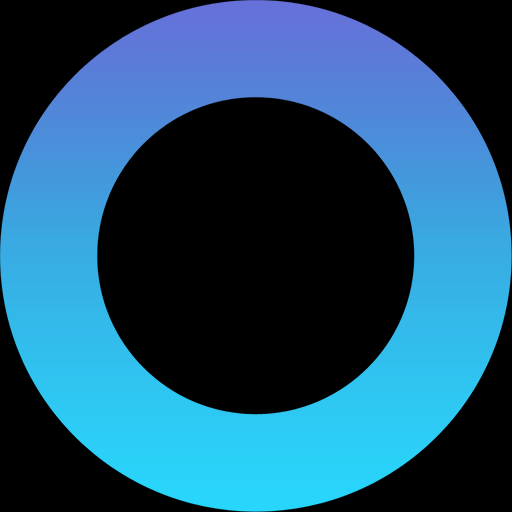
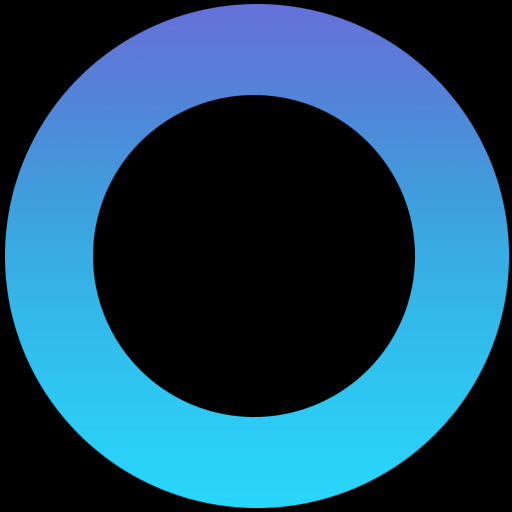
refining params and edges

diff --git a/js/app.js b/js/app.js
@@ -11,7 +11,7 @@ var objects;
 
 function init() {
 	//Caching, initializing some objects.
-	_FPS = 25 ;
+	_FPS = 30 ;
 	_CANVAS = document.getElementById('myCanvas');
 	_CONTEXT = _CANVAS.getContext("2d");
 
@@ -22,15 +22,31 @@ function init() {
 }
 
 function getImageData() {
-	
-
-	//image.src = "assets/heart.jpg";
-	//image.src = "assets/logo.jpg";
-	//image.src = "assets/circle_icon.png";
-	//loadImage("assets/hackethon.jpg",1);
-	loadImage("assets/logo.png", 1);
-
 	render();
+
+	var currentImage = 0;
+
+	var images = [];
+	images.push('assets/heart.png');
+	images.push('assets/circle_icon.png');
+	images.push('assets/logo.png');
+
+	var job = function(){
+		window.requestAnimationFrame(function(){
+			loadImage(images[currentImage],0.8);
+
+			currentImage++;
+			if(currentImage>=images.length){
+				currentImage = 0;
+			}
+
+			setTimeout(job,3000);
+		});
+	}
+
+	job();
+
+	
    	startCreating();
 }
 
@@ -40,23 +56,16 @@ function loadImage(path, scale){
 
 	var image = new Image();
 	image.onload = function(){
-
-		imgCanvas.width = image.width*scale;
-   		imgCanvas.height = image.height*scale;
-   		imgContext.drawImage(image,0,0, image.width, image.height, 0,0,imgCanvas.width, imgCanvas.height);
-
-   		
+		imgCanvas.width = this.width*scale;
+   		imgCanvas.height = this.height*scale;
+   		imgContext.drawImage(image,0,0, image.width, image.height, 0,0,imgCanvas.width, imgCanvas.height);   		
 	};
-
-	image.src = path;
+	image.src = path + '?' + String(Math.random());
 }
 
 function render() {
-	//Add delay to achieve maximum set framerate.
 	setTimeout(function() {
 		window.requestAnimationFrame(function(){
-			//console.log('frame rendered !');
-			//Recalling Render, to render next 'frame'.
 			window.render();
 
 			updateCanvas();
@@ -79,7 +88,7 @@ function startCreating() {
 		window.requestAnimationFrame(function(){
 			createPixels();
 
-			setTimeout(job, 15);
+			setTimeout(job, 35);
 		});
 	}
 
@@ -88,9 +97,10 @@ function startCreating() {
 
 function createPixels() {
 	if(imgContext){
-		for (var i = 40; i >= 0; i--) {
+		for (var i = 45; i >= 0; i--) {
 			var x = Math.floor(Math.random()*imgCanvas.width);
 		    var y = Math.floor(Math.random()*imgCanvas.height);
+			
 			var randomPixel = imgContext.getImageData(x, y, 1, 1).data;
 
 			var red = randomPixel[0];
@@ -100,9 +110,10 @@ function createPixels() {
 			if(red || green || blue){
 				var pixel = {
 					x: ((window.innerWidth/2) - (imgCanvas.width/2)) + x,
-					y: ((window.innerHeight/2) - (imgCanvas.height/2)) + y,
+					y: ((window.innerHeight/2) - (imgCanvas.height/2)) + y + 20,
 					radius: 0,
 					opacity: 1,
+					speed: 0.5,
 					color: {
 						red: red,
 						green: green,
@@ -122,10 +133,13 @@ function updateObjects(){
 	for (var i = objects.length - 1; i >= 0; i--) {
 		var pixel = objects[i];
 
-		pixel.radius+=1.5;
+		pixel.radius+=1;
+		pixel.y -= pixel.speed;
 
-		if(pixel.radius>3){
-			if(pixel.opacity>0){
+		pixel.speed += 0.2;
+
+		if(pixel.radius>10){
+			if(pixel.opacity>0.1){
 				pixel.opacity -=0.1;
 			} else {
 				if(pixel.opacity<=0.1){
@@ -138,24 +152,31 @@ function updateObjects(){
 }
 
 function drawObjects(){
-	_CONTEXT.shadowBlur = 0;
-	_CONTEXT.globalAlpha = 0.1;
+	//_CONTEXT.shadowBlur = 0;
+	_CONTEXT.globalAlpha = 0.5;
 	_CONTEXT.fillStyle = '#1C1C1C';
 	_CONTEXT.fillRect(0,0,window.innerWidth,window.innerHeight);
+	//_CONTEXT.clearRect(0,0,window.innerWidth,window.innerHeight);
 	_CONTEXT.globalAlpha = 1;
 
-   	//_CONTEXT.shadowBlur = 30;
+   	//_CONTEXT.shadowBlur = 50;
 
 	for (var i = objects.length - 1; i >= 0; i--) {
 		var pixel = objects[i];
 		var color = pixel.color;
 
 		//_CONTEXT.fillRect(x, y, 10, 10 );
-		_CONTEXT.globalAlpha = pixel.opacity;
+		
 		_CONTEXT.beginPath();
 		_CONTEXT.fillStyle = 'rgba('+color.red+','+color.green+','+color.blue+', 255)';
-		_CONTEXT.arc(pixel.x, pixel.y, pixel.radius, 0, 2 * Math.PI, false);
 		_CONTEXT.shadowColor = 'rgba('+color.red+','+color.green+','+color.blue+', 255)';
+		
+		_CONTEXT.globalAlpha = 0.2;
+		_CONTEXT.fillRect(pixel.x - pixel.radius,pixel.y - pixel.radius,pixel.radius*2,pixel.radius*2);
+
+		_CONTEXT.globalAlpha = pixel.opacity;
+		_CONTEXT.arc(pixel.x, pixel.y, pixel.radius, 0, 2 * Math.PI, false);	
+		
 		_CONTEXT.fill();
 	};
 }
